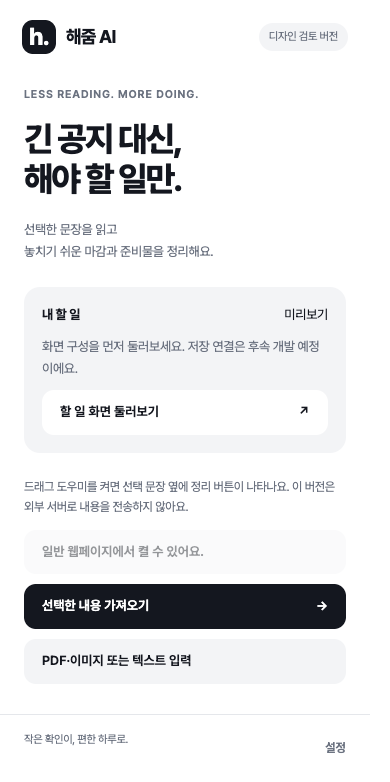
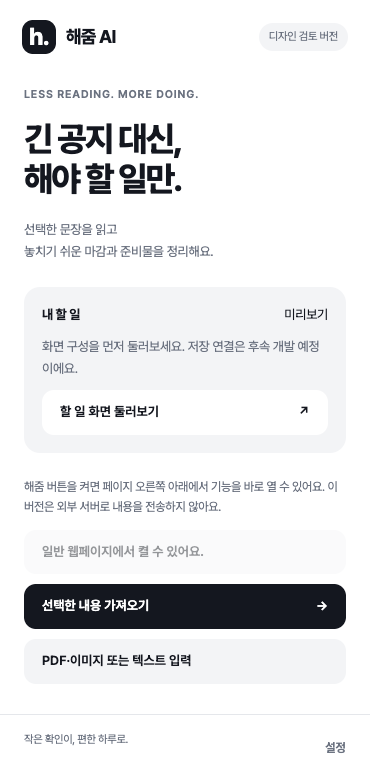
Add circular page launcher and Haezoom quick actions

Changed region(s): [[0.0615, 0.6138, 0.8615, 0.6752]]

diff --git a/extension/selection-helper.js b/extension/selection-helper.js
@@ -14,15 +14,56 @@
   const hint = document.createElement('span'); hint.className = 'hint'; hint.textContent = '먼저 내용을 확인해요 · 자동 전송 없음';
   chip.append(main, count, close, hint); shadow.append(style, chip); document.documentElement.append(host);
   let selectedText = ''; let timer;
+  const launcherHost = document.createElement('div');
+  launcherHost.setAttribute('data-haezoom-launcher', '');
+  launcherHost.style.cssText = 'all:initial;position:fixed;right:24px;bottom:24px;z-index:2147483646;';
+  const launcherShadow = launcherHost.attachShadow({ mode: 'closed' });
+  const launcherStyle = document.createElement('style');
+  launcherStyle.textContent = ':host{color-scheme:light}*{box-sizing:border-box}[hidden]{display:none!important}button{font:inherit;cursor:pointer}button:focus-visible{outline:2px solid #2298ff;outline-offset:3px}.wrap{font:14px/1.6 -apple-system,BlinkMacSystemFont,"Apple SD Gothic Neo",sans-serif;color:#14171f;letter-spacing:-.025em}.bubble{display:block;margin-left:auto;width:56px;height:56px;border:1px solid #ffffff50;border-radius:50%;background:#14171f;color:#fff;font-size:30px;font-weight:750;box-shadow:0 3px 8px #14171f1a,0 10px 30px #14171f26;transition:transform .15s}.bubble:hover{transform:translateY(-2px)}.bubble[aria-expanded=true]{background:#313641}.panel{position:absolute;right:0;bottom:70px;width:min(320px,calc(100vw - 40px));max-height:calc(100dvh - 120px);overflow:auto;padding:20px;border:1px solid #e5e7eb;border-radius:22px;background:#fff;box-shadow:0 10px 50px #14171f24}.top{display:flex;align-items:center;justify-content:space-between}.brand{display:flex;align-items:center;gap:9px;font-weight:750;font-size:16px}.mini{display:grid;place-items:center;width:30px;height:30px;border-radius:10px;color:white;background:#14171f;font-size:21px}.close{border:0;border-radius:50%;background:#f3f4f6;color:#6b7280;width:28px;height:28px;font-size:19px}h2{font-size:23px;line-height:1.4;letter-spacing:-.05em;margin:22px 0 8px}p{margin:0;color:#6b7280;font-size:12px}.selection{margin:16px 0 10px;padding:13px;border-radius:12px;background:#f3f4f6}.selection p{white-space:pre-wrap;overflow-wrap:anywhere;display:-webkit-box;-webkit-line-clamp:3;-webkit-box-orient:vertical;overflow:hidden}.selection strong{display:block;font-size:11px;margin-bottom:6px}.action{width:100%;display:flex;align-items:center;justify-content:space-between;border:0;border-radius:12px;padding:12px 14px;margin-top:7px;background:#f3f4f6;color:#14171f;text-align:left;font-size:13px;font-weight:600}.primary{background:#14171f;color:#fff}.action:disabled{opacity:.45;cursor:default}.foot{border-top:1px solid #e5e7eb;margin-top:18px;padding-top:12px}.hide{border:0;background:none;padding:6px 0 0;color:#6b7280;font-size:11px}.status{font-size:11px;color:#775413;margin-top:8px}.tag{font-size:10px;color:#6b7280;margin-top:4px}@media(max-width:480px){.panel{bottom:66px}.bubble{width:52px;height:52px}}@media(prefers-reduced-motion:reduce){.bubble{transition:none}}';
+  const create = (tag, text, className) => { const element = document.createElement(tag); if (text) element.textContent = text; if (className) element.className = className; return element; };
+  const wrap = create('div', '', 'wrap');
+  const panel = create('section', '', 'panel'); panel.hidden = true; panel.id = 'haezoom-menu'; panel.setAttribute('aria-label', '해줌 도우미 기능');
+  const top = create('div', '', 'top'); const brand = create('div', '', 'brand'); brand.append(create('span', 'h.', 'mini'), create('span', '해줌 AI'));
+  const dismiss = create('button', '×', 'close'); dismiss.type = 'button'; dismiss.setAttribute('aria-label', '해줌 메뉴 닫기'); top.append(brand, dismiss);
+  panel.append(top, create('h2', '긴 공지 대신, 해야 할 일만.'), create('p', '문장을 선택하거나 문서를 가져와 보세요.'), create('p', '화면 검토 버전 · AI·저장·캘린더 미연동', 'tag'));
+  const selectionPreview = create('div', '', 'selection'); const selectionLabel = create('strong', '선택한 문장'); const selectionText = create('p', '정리하고 싶은 문장을 드래그해 주세요.'); selectionPreview.append(selectionLabel, selectionText); panel.append(selectionPreview);
+  const selectedAction = create('button', '선택한 내용 가져오기 →', 'action primary'); selectedAction.type = 'button'; selectedAction.disabled = true; panel.append(selectedAction);
+  const menuStatus = create('p', '', 'status'); menuStatus.setAttribute('role', 'status');
+  const openView = async view => {
+    try { const response = await chrome.runtime.sendMessage({ type: 'openWorkspace', payload: { view } }); if (!response?.ok) throw new Error(); closeMenu(); }
+    catch { menuStatus.textContent = '확장 아이콘에서 다시 열어 주세요.'; }
+  };
+  for (const [label, view] of [['PDF·이미지 / 텍스트 정리 ↗', 'analyze'], ['내 할 일 둘러보기 ↗', 'tasks'], ['사용 안내 ↗', 'settings']]) {
+    const action = create('button', label, 'action'); action.type = 'button'; action.onclick = () => openView(view); panel.append(action);
+  }
+  const foot = create('div', '', 'foot'); foot.append(create('p', '드래그만으로 내용을 전송하지 않아요.'));
+  const hideLauncher = create('button', '이 페이지에서 버튼 숨기기', 'hide'); hideLauncher.type = 'button'; foot.append(hideLauncher); panel.append(menuStatus, foot);
+  const launcher = create('button', 'h.', 'bubble'); launcher.type = 'button'; launcher.setAttribute('aria-label', '해줌 도우미 열기'); launcher.setAttribute('aria-expanded', 'false'); launcher.setAttribute('aria-controls', panel.id); launcher.title = '해줌 도우미';
+  wrap.append(panel, launcher); launcherShadow.append(launcherStyle, wrap); document.documentElement.append(launcherHost);
+  function closeMenu() { panel.hidden = true; launcher.setAttribute('aria-expanded', 'false'); launcher.setAttribute('aria-label', '해줌 도우미 열기'); }
+  function syncPreview() {
+    selectedAction.disabled = !selectedText || selectedText.length > 45000;
+    selectionLabel.textContent = selectedText ? `선택한 문장 · ${selectedText.length.toLocaleString()}자` : '선택한 문장';
+    selectionText.textContent = selectedText ? selectedText.slice(0, 240) : '정리하고 싶은 문장을 드래그해 주세요.';
+    menuStatus.textContent = selectedText.length > 45000 ? '45,000자 이내로 선택해 주세요.' : '';
+  }
+  launcher.onclick = () => { syncPreview(); panel.hidden = !panel.hidden; launcher.setAttribute('aria-expanded', String(!panel.hidden)); launcher.setAttribute('aria-label', panel.hidden ? '해줌 도우미 열기' : '해줌 도우미 닫기'); };
+  dismiss.onclick = () => { closeMenu(); launcher.focus(); };
+  hideLauncher.onclick = () => { closeMenu(); launcherHost.style.display = 'none'; };
+  selectedAction.addEventListener('pointerdown', event => event.preventDefault());
+  selectedAction.onclick = () => main.click();
+  document.addEventListener('pointerdown', event => { if (!event.composedPath().includes(launcherHost)) closeMenu(); }, { signal: controller.signal });
+  launcherShadow.addEventListener('keydown', event => { if (event.key === 'Escape') { closeMenu(); launcher.focus(); event.stopPropagation(); } });
   const hide = () => { host.style.display = 'none'; };
   const update = () => {
-    if (shadow.activeElement) return;
+    if (shadow.activeElement || launcherShadow.activeElement) return;
     const active = document.activeElement;
-    if (active?.matches('input,textarea,select') || active?.isContentEditable) return hide();
+    if (active?.matches('input,textarea,select') || active?.isContentEditable) { selectedText = ''; syncPreview(); return hide(); }
     const selection = window.getSelection();
-    if (!selection?.rangeCount || selection.isCollapsed || selection.anchorNode?.parentElement?.closest('input,textarea,[contenteditable="true"]')) return hide();
+    if (!selection?.rangeCount || selection.isCollapsed || selection.anchorNode?.parentElement?.closest('input,textarea,[contenteditable="true"]')) { selectedText = ''; syncPreview(); return hide(); }
     selectedText = selection.toString().trim();
-    if (selectedText.length < 5) return hide();
+    if (selectedText.length < 5) { selectedText = ''; syncPreview(); return hide(); }
+    syncPreview();
     const rect = selection.getRangeAt(0).getBoundingClientRect();
     if (!rect.width && !rect.height) return hide();
     count.textContent = `${selectedText.length.toLocaleString()}자`; main.disabled = selectedText.length > 45000;
@@ -34,7 +75,7 @@
   };
   const schedule = () => { clearTimeout(timer); timer = setTimeout(update, 160); };
   document.addEventListener('pointerup', schedule, { signal: controller.signal });
-  document.addEventListener('keyup', event => { if (event.key === 'Escape') hide(); else if (event.key === 'Shift' || event.shiftKey) schedule(); }, { signal: controller.signal });
+  document.addEventListener('keyup', event => { if (event.key === 'Escape') { hide(); closeMenu(); } else if (event.key === 'Shift' || event.shiftKey) schedule(); }, { signal: controller.signal });
   document.addEventListener('selectionchange', schedule, { signal: controller.signal });
   window.addEventListener('scroll', hide, { signal: controller.signal, capture: true });
   window.addEventListener('resize', hide, { signal: controller.signal });
@@ -45,10 +86,10 @@
     try {
       const response = await chrome.runtime.sendMessage({ type: 'selection', payload: { text: selectedText } });
       if (!response?.ok) throw new Error(response?.error || '확장을 다시 불러와 주세요.');
-      hide();
-    } catch { hint.textContent = '확장 아이콘에서 다시 시도해 주세요.'; }
+      hide(); closeMenu();
+    } catch { hint.textContent = '확장 아이콘에서 다시 시도해 주세요.'; menuStatus.textContent = hint.textContent; }
     finally { main.disabled = false; main.textContent = '해줌으로 정리 →'; }
   };
-  const disable = message => { if (message.type !== 'disableHelper') return; controller.abort(); clearTimeout(timer); host.remove(); chrome.runtime.onMessage.removeListener(disable); delete globalThis.__haezoomHelper; };
+  const disable = message => { if (message.type !== 'disableHelper') return; controller.abort(); clearTimeout(timer); host.remove(); launcherHost.remove(); chrome.runtime.onMessage.removeListener(disable); delete globalThis.__haezoomHelper; };
   chrome.runtime.onMessage.addListener(disable); globalThis.__haezoomHelper = true;
 })();

diff --git a/extension/workspace.html b/extension/workspace.html
@@ -1,4 +1,4 @@
 <!doctype html><html lang="ko"><head><meta charset="utf-8"><meta name="viewport" content="width=device-width, initial-scale=1"><title>해줌 AI · 내 할 일</title><link rel="stylesheet" href="ui.css"><script src="vendor/tesseract/tesseract.min.js"></script><script type="module" src="workspace.js"></script></head><body><div class="shell"><aside><a class="brand" href="#analyze"><span class="logo">h.</span>해줌 AI</a><p class="eyebrow">MY WORKSPACE</p><nav aria-label="주요 메뉴"><a href="#analyze">문서 정리 <span>↗</span></a><a href="#tasks">내 할 일 <span id="nav-count">0</span></a><a href="#settings">사용 안내 <span>↗</span></a></nav><div class="aside-note"><span class="logo outline">✓</span><h3>작은 확인이,<br>편한 하루로.</h3><p>중요한 일은 해줌과 정리하고,<br>오늘의 나에게 집중하세요.</p></div><small>HAEZOOM AI · 2.0</small></aside><main class="workspace"><header class="page-header"><span id="page-label" class="eyebrow">DOCUMENT TO ACTION</span><span class="pill">화면 검토용 · AI/저장/캘린더 미연동</span></header><div id="status" role="status" aria-live="polite"></div>
 <section id="analyze" class="view"><div class="hero"><p class="eyebrow">문서를 읽는 시간을 줄여요</p><h1>공지 한 장,<br>할 일은 또렷하게.</h1><p class="muted">마감일, 준비물, 제출 방법까지.<br>해줌이 정리하면 내가 한 번 더 확인해요.</p></div><div class="grid"><section class="panel"><div class="section-title"><h2>어떤 문서를 정리할까요?</h2><span class="step">01</span></div><label class="drop" id="drop"> <span class="upload-icon">↑</span><strong>PDF·이미지를 선택하거나 놓아주세요</strong><span>최대 20MB · PDF 30페이지</span><input id="file" type="file" accept="application/pdf,image/png,image/jpeg,image/webp"></label><p id="file-status" class="muted" role="status"></p><label for="input-text">또는 내용을 붙여 넣어 주세요</label><textarea id="input-text" rows="8" maxlength="45000" placeholder="신청 기한과 준비물이 있는 공지 내용을 입력해 주세요."></textarea><p class="privacy">화면 검토 버전입니다. 파일 텍스트 추출은 브라우저에서 처리하며 AI 분석은 연결 전입니다. OCR 언어 데이터는 외부 서버에서 내려받습니다. 새로고침하면 미리보기 목록은 초기화됩니다.</p><label class="consent"><input id="consent" type="checkbox">추후 AI 전송 전 확인할 동의 화면입니다 (현재 전송 없음)</label><button id="run" class="primary wide">AI 연결 상태 확인 <span>→</span></button><button id="sample" class="text">서버 없이 샘플 결과 둘러보기</button><p class="muted tiny">샘플은 미리 작성된 결과이며 AI 분석이 아닙니다.</p></section><section class="panel result-panel"><div class="section-title"><h2>정리한 내용</h2><span class="step">02</span></div><div id="result-empty" class="empty"><span class="empty-mark">✓</span><h3>여기에 할 일을 모아드릴게요</h3><p>문서를 정리한 다음 저장하고,<br>날짜와 근거를 확인해 주세요.</p></div><div id="analysis-result" hidden><span id="sample-badge" class="badge" hidden>미리 작성된 샘플 결과</span><p id="summary"></p><div id="draft-list"></div><button id="save" class="primary wide">할 일 화면으로 가져가기 (미리보기)</button><p class="muted tiny">현재 목록은 화면 안에서만 유지돼요. 저장·알림·캘린더는 후배 개발자가 연결할 예정입니다.</p></div></section></div></section>
 <section id="tasks" class="view" hidden><div class="hero"><p class="eyebrow">ONE THING AT A TIME</p><h1>해야 할 일을,<br>잊지 않도록.</h1><p class="muted">원문과 날짜를 확인하는 흐름을 미리 체험해 보세요.<br>저장·알림·캘린더는 연결 전이며 새로고침하면 초기화됩니다.</p></div><div class="toolbar"><label>보기 <select id="filter"><option value="all">전체 항목</option><option value="pending">미완료</option><option value="review">확인 필요</option><option value="completed">완료</option></select></label><input id="search" type="search" aria-label="할 일 검색" placeholder="할 일 검색"><button id="export-json" class="secondary">결과 JSON 내려받기</button><button id="export-ics" class="primary">캘린더 연결 예정</button></div><form id="manual" class="manual"><input id="manual-title" aria-label="새 할 일 제목" placeholder="직접 할 일 추가" required maxlength="500"><input id="manual-date" aria-label="새 할 일 마감일" type="date"><button class="secondary">추가</button></form><p class="muted tiny">실제 저장 및 캘린더 연동 없이 화면과 편집 흐름만 검토하는 버전입니다.</p><div id="task-list"></div><p class="privacy">목록 수정·완료·삭제는 현재 열린 화면에만 반영됩니다. 외부 캘린더에는 전송되지 않습니다.</p></section>
-<section id="settings" class="view" hidden><div class="hero"><p class="eyebrow">START SMALL</p><h1>드래그하고,<br>한 번 더 확인해요.</h1><p class="muted">익숙한 웹페이지에서 시작하는 해줌 사용법.</p></div><section class="panel settings-panel"><h2>드래그 도우미 사용법</h2><ol><li>공지 웹페이지에서 해줌 아이콘을 누르세요.</li><li>‘이 사이트 드래그 도우미 켜기’를 누르고 해당 사이트 권한을 허용하세요.</li><li>문장을 드래그하면 옆에 ‘해줌으로 정리’가 나타나요.</li><li>버튼을 누르면 선택 문장이 이 화면으로 이동해요.</li></ol><p class="muted">키보드 Shift + 방향키 선택도 지원해요. Esc로 닫을 수 있고, 입력창에서 작성 중인 글에는 표시하지 않아요. 사이트별로 끌 수 있어요. 현재 버전은 선택 내용을 외부 AI 서버에 전송하지 않습니다.</p></section><section class="panel settings-panel"><h2>후속 개발 범위</h2><p class="muted">실제 AI 분석, 지속 저장, 알림과 캘린더 연결은 후배 개발자의 작업 범위입니다. 현재는 샘플 결과와 편집 흐름을 검토할 수 있습니다. 드래그 도우미가 읽는 선택 문장은 화면 간 전달을 위해 브라우저 세션에 잠시 보관하고, 가져온 뒤 지웁니다.</p></section></section><footer><span>문서는 짧게, 하루는 가볍게.</span><span>해줌 AI</span></footer></main></div></body></html>
+<section id="settings" class="view" hidden><div class="hero"><p class="eyebrow">START SMALL</p><h1>드래그하고,<br>한 번 더 확인해요.</h1><p class="muted">익숙한 웹페이지에서 시작하는 해줌 사용법.</p></div><section class="panel settings-panel"><h2>드래그 도우미 사용법</h2><ol><li>공지 웹페이지에서 해줌 아이콘을 누르세요.</li><li>‘이 사이트 해줌 버튼 켜기’를 누르고 해당 사이트 권한을 허용하세요.</li><li>오른쪽 아래 동그란 h. 버튼을 누르면 기능 메뉴가 열려요. 문장을 드래그하면 옆에도 정리 버튼이 나타나요.</li><li>버튼을 누르면 선택 문장이 이 화면으로 이동해요.</li></ol><p class="muted">키보드 Shift + 방향키 선택도 지원해요. Esc로 닫을 수 있고, 입력창에서 작성 중인 글에는 표시하지 않아요. 사이트별로 끌 수 있어요. 현재 버전은 선택 내용을 외부 AI 서버에 전송하지 않습니다.</p></section><section class="panel settings-panel"><h2>후속 개발 범위</h2><p class="muted">실제 AI 분석, 지속 저장, 알림과 캘린더 연결은 후배 개발자의 작업 범위입니다. 현재는 샘플 결과와 편집 흐름을 검토할 수 있습니다. 드래그 도우미가 읽는 선택 문장은 화면 간 전달을 위해 브라우저 세션에 잠시 보관하고, 가져온 뒤 지웁니다.</p></section></section><footer><span>문서는 짧게, 하루는 가볍게.</span><span>해줌 AI</span></footer></main></div></body></html>

diff --git a/extension/popup.html b/extension/popup.html
@@ -1,1 +1,1 @@
-<!doctype html><html lang="ko"><head><meta charset="utf-8"><meta name="viewport" content="width=device-width, initial-scale=1"><title>해줌 AI</title><link rel="stylesheet" href="ui.css"><script type="module" src="popup.js"></script></head><body class="popup"><header><a class="brand" href="#"><span class="logo">h.</span>해줌 AI</a><span class="pill">디자인 검토 버전</span></header><main><p class="eyebrow">LESS READING. MORE DOING.</p><h1>긴 공지 대신,<br>해야 할 일만.</h1><p class="muted">선택한 문장을 읽고<br>놓치기 쉬운 마감과 준비물을 정리해요.</p><section class="soft"><div class="row"><strong>내 할 일</strong><span id="count">미리보기</span></div><p id="next" class="muted">화면 구성을 먼저 둘러보세요. 저장 연결은 후속 개발 예정이에요.</p><button id="tasks" class="secondary wide">할 일 화면 둘러보기 <span>↗</span></button></section><p class="privacy">드래그 도우미를 켜면 선택 문장 옆에 정리 버튼이 나타나요. 이 버전은 외부 서버로 내용을 전송하지 않아요.</p><button id="helper" class="secondary wide">드래그 도우미 확인 중</button><button id="selection" class="primary wide">선택한 내용 가져오기 <span>→</span></button><button id="upload" class="secondary wide">PDF·이미지 또는 텍스트 입력</button><p id="status" role="status" aria-live="polite"></p></main><footer><span>작은 확인이, 편한 하루로.</span><button id="settings" class="text">설정</button></footer></body></html>
+<!doctype html><html lang="ko"><head><meta charset="utf-8"><meta name="viewport" content="width=device-width, initial-scale=1"><title>해줌 AI</title><link rel="stylesheet" href="ui.css"><script type="module" src="popup.js"></script></head><body class="popup"><header><a class="brand" href="#"><span class="logo">h.</span>해줌 AI</a><span class="pill">디자인 검토 버전</span></header><main><p class="eyebrow">LESS READING. MORE DOING.</p><h1>긴 공지 대신,<br>해야 할 일만.</h1><p class="muted">선택한 문장을 읽고<br>놓치기 쉬운 마감과 준비물을 정리해요.</p><section class="soft"><div class="row"><strong>내 할 일</strong><span id="count">미리보기</span></div><p id="next" class="muted">화면 구성을 먼저 둘러보세요. 저장 연결은 후속 개발 예정이에요.</p><button id="tasks" class="secondary wide">할 일 화면 둘러보기 <span>↗</span></button></section><p class="privacy">해줌 버튼을 켜면 페이지 오른쪽 아래에서 기능을 바로 열 수 있어요. 이 버전은 외부 서버로 내용을 전송하지 않아요.</p><button id="helper" class="secondary wide">해줌 버튼 확인 중</button><button id="selection" class="primary wide">선택한 내용 가져오기 <span>→</span></button><button id="upload" class="secondary wide">PDF·이미지 또는 텍스트 입력</button><p id="status" role="status" aria-live="polite"></p></main><footer><span>작은 확인이, 편한 하루로.</span><button id="settings" class="text">설정</button></footer></body></html>

diff --git a/extension/popup.js b/extension/popup.js
@@ -20,7 +20,7 @@ try {
   currentOrigin = new URL(tab.url).origin;
   registrationId = 'hz-' + [...new TextEncoder().encode(currentOrigin)].map(byte => byte.toString(16).padStart(2, '0')).join('');
   const registrations = await chrome.scripting.getRegisteredContentScripts({ ids: [registrationId] });
-  helper.textContent = registrations.length ? '이 사이트 드래그 도우미 끄기' : '이 사이트 드래그 도우미 켜기';
+  helper.textContent = registrations.length ? '이 사이트 해줌 버튼 끄기' : '이 사이트 해줌 버튼 켜기';
 } catch (error) { helper.disabled = true; helper.textContent = error.message; }
 helper.onclick = async () => {
   try {
@@ -31,12 +31,12 @@ helper.onclick = async () => {
       const tabs = await chrome.tabs.query({ url: `${currentOrigin}/*` });
       await Promise.allSettled(tabs.map(entry => chrome.tabs.sendMessage(entry.id, { type: 'disableHelper' })));
       await chrome.permissions.remove({ origins: [`${currentOrigin}/*`] });
-      helper.textContent = '이 사이트 드래그 도우미 켜기'; status.textContent = '이 사이트의 드래그 도우미를 껐어요.';
+      helper.textContent = '이 사이트 해줌 버튼 켜기'; status.textContent = '이 사이트의 드래그 도우미를 껐어요.';
     } else {
       if (!await chrome.permissions.request({ origins: [`${currentOrigin}/*`] })) return;
       await chrome.scripting.registerContentScripts([{ id: registrationId, matches: [`${currentOrigin}/*`], js: ['selection-helper.js'], runAt: 'document_idle' }]);
       await chrome.scripting.executeScript({ target: { tabId: tab.id }, files: ['selection-helper.js'] });
-      helper.textContent = '이 사이트 드래그 도우미 끄기'; status.textContent = '문장을 드래그하면 옆에 정리 버튼이 나타나요. 텍스트는 자동 전송되지 않아요.';
+      helper.textContent = '이 사이트 해줌 버튼 끄기'; status.textContent = '오른쪽 아래 동그란 해줌 버튼을 눌러 기능을 열어보세요. 문장 드래그도 지원해요.';
     }
   } catch { status.textContent = '이 페이지에서는 도우미를 켤 수 없어요. 복사해 직접 붙여 넣어 주세요.'; }
 };

diff --git a/extension/background.js b/extension/background.js
@@ -1,6 +1,11 @@
 chrome.runtime.onMessage.addListener((message, sender, reply) => {
-  if (sender.id !== chrome.runtime.id || message.type !== 'selection') return false;
+  if (sender.id !== chrome.runtime.id || !['selection', 'openWorkspace'].includes(message.type)) return false;
   const open = async () => {
+    if (message.type === 'openWorkspace') {
+      const view = ['analyze', 'tasks', 'settings'].includes(message.payload?.view) ? message.payload.view : 'analyze';
+      await chrome.tabs.create({ url: chrome.runtime.getURL(`workspace.html#${view}`) });
+      return;
+    }
     const text = message.payload?.text;
     if (typeof text !== 'string' || !text.trim() || text.length > 45000) throw new Error('분석할 내용을 45,000자 이내로 선택해 주세요.');
     const url = sender.tab?.url ? new URL(sender.tab.url) : null;

diff --git a/README.md b/README.md
@@ -4,7 +4,9 @@
 
 ## 지금 가능한 것
 
-- 사이트별 권한을 허용하면 문장 선택 옆에 ‘해줌으로 정리’ 버튼 표시
+- 사이트별 권한을 허용하면 오른쪽 아래 동그란 h. 버튼 → 기능 메뉴 표시
+- 메뉴에서 선택 문장 미리보기, 문서 정리·내 할 일·사용 안내로 이동
+- 문장 선택 옆의 ‘해줌으로 정리’ 버튼도 함께 지원
 - 버튼 클릭 → 선택 문장과 출처를 문서 정리 화면으로 이동 (AI 자동 전송 없음)
 - 팝업에서도 선택 내용 가져오기, 복사/붙여넣기
 - PDF·이미지에서 브라우저 내 텍스트 추출 (OCR 언어 데이터는 외부 다운로드)
@@ -20,8 +22,9 @@
 2. `chrome://extensions`에서 개발자 모드를 켭니다.
 3. ‘압축해제된 확장 프로그램을 로드합니다’에서 **extension 폴더**를 선택합니다.
 4. 확장 아이콘을 고정합니다.
-5. HTTPS 공지 페이지에서 확장 아이콘 → ‘이 사이트 드래그 도우미 켜기’ → 사이트 권한 허용.
-6. 문장을 5자 이상 드래그하고 나타나는 ‘해줌으로 정리’를 누릅니다.
+5. HTTPS 공지 페이지에서 확장 아이콘 → ‘이 사이트 해줌 버튼 켜기’ → 사이트 권한 허용.
+6. 오른쪽 아래 동그란 h. 버튼을 눌러 기능 메뉴를 엽니다.
+7. 문장을 5자 이상 드래그하면 메뉴에 미리보기가 표시됩니다. 문장 옆 정리 버튼도 사용할 수 있습니다.
 
 도우미를 끄려면 같은 팝업에서 ‘끄기’를 누르세요. 켜기 전 열려 있던 다른 탭은 새로고침해야 합니다. 브라우저 내부 페이지/웹스토어/내장 PDF 뷰어/iframe 내부/입력창은 지원 범위 밖입니다. 드래그 대신 팝업으로 가져오거나 직접 붙여 넣을 수 있습니다. 도우미는 텍스트가 선택되었을 때만 표시되며 스크롤 또는 Esc로 닫힙니다. PDF는 문서 정리 화면에서 파일로 여세요.
 

diff --git a/docs/DESIGN.md b/docs/DESIGN.md
@@ -12,3 +12,5 @@
 문서 입력 → 결과 → 확인 → 할 일의 순서를 분리합니다. 날짜 없는 자료는 추측하지 않고 원문을 보여주며, 사용자가 날짜를 직접 지정해 확인합니다. 시각적 완료와 실제 서비스 연결 상태를 혼동하지 않도록 상단에 검토 버전 배지를 고정적으로 표시합니다.
 
 UI 프리뷰의 모든 날짜는 샘플 데이터입니다. 화면의 미리보기 동작이 실서비스 분석·저장·알림 성공을 의미하지 않습니다.
+
+2.1: 이편한자막 일반 사이트의 플로팅 버튼 → 페이지 도우미 패널 패턴을 참고해 오른쪽 아래 원형 h. 로고를 추가했습니다. 누르면 선택 문장 미리보기와 문서 정리·내 할 일·사용 안내가 펼쳐집니다. 사이트별 활성화 원칙과 문장 옆 드래그 칩을 함께 유지합니다. 메뉴는 Esc/바깥 클릭/닫기로 접고, 원형 버튼은 현재 페이지에서 숨길 수 있습니다. 새로고침하면 다시 표시됩니다.

diff --git a/docs/QA.md b/docs/QA.md
@@ -13,6 +13,8 @@
 
 ## 미검증 / 인계 후 필요
 
+2.1 추가 검증: 별도 브라우저의 도우미 DOM 테스트에서 상시 표시되는 원형 버튼, 기능 메뉴 열기, 내 할 일 이동 메시지, Esc 닫기, 페이지에서 숨기기를 확인했습니다. 이 테스트의 runtime은 모의 객체이며 사이트 권한 승인 흐름은 별도입니다. 메뉴 스크린샷은 `06-floating-menu.png`입니다.
+
 - 사용자의 실제 Chrome 프로필에는 설치하거나 변경하지 않음.
 - 실제 사이트의 권한 승인 팝업, 도우미 등록·해제·재시작, SPA/iframe/브라우저 PDF 뷰어는 수동 확인 필요.
 - PDF.js/Tesseract 파일 존재와 참조는 확인했으나 실제 PDF·이미지/스캔 OCR 정확도·표 구조·외부 언어 데이터 다운로드는 이번 UI 테스트 범위 밖.
